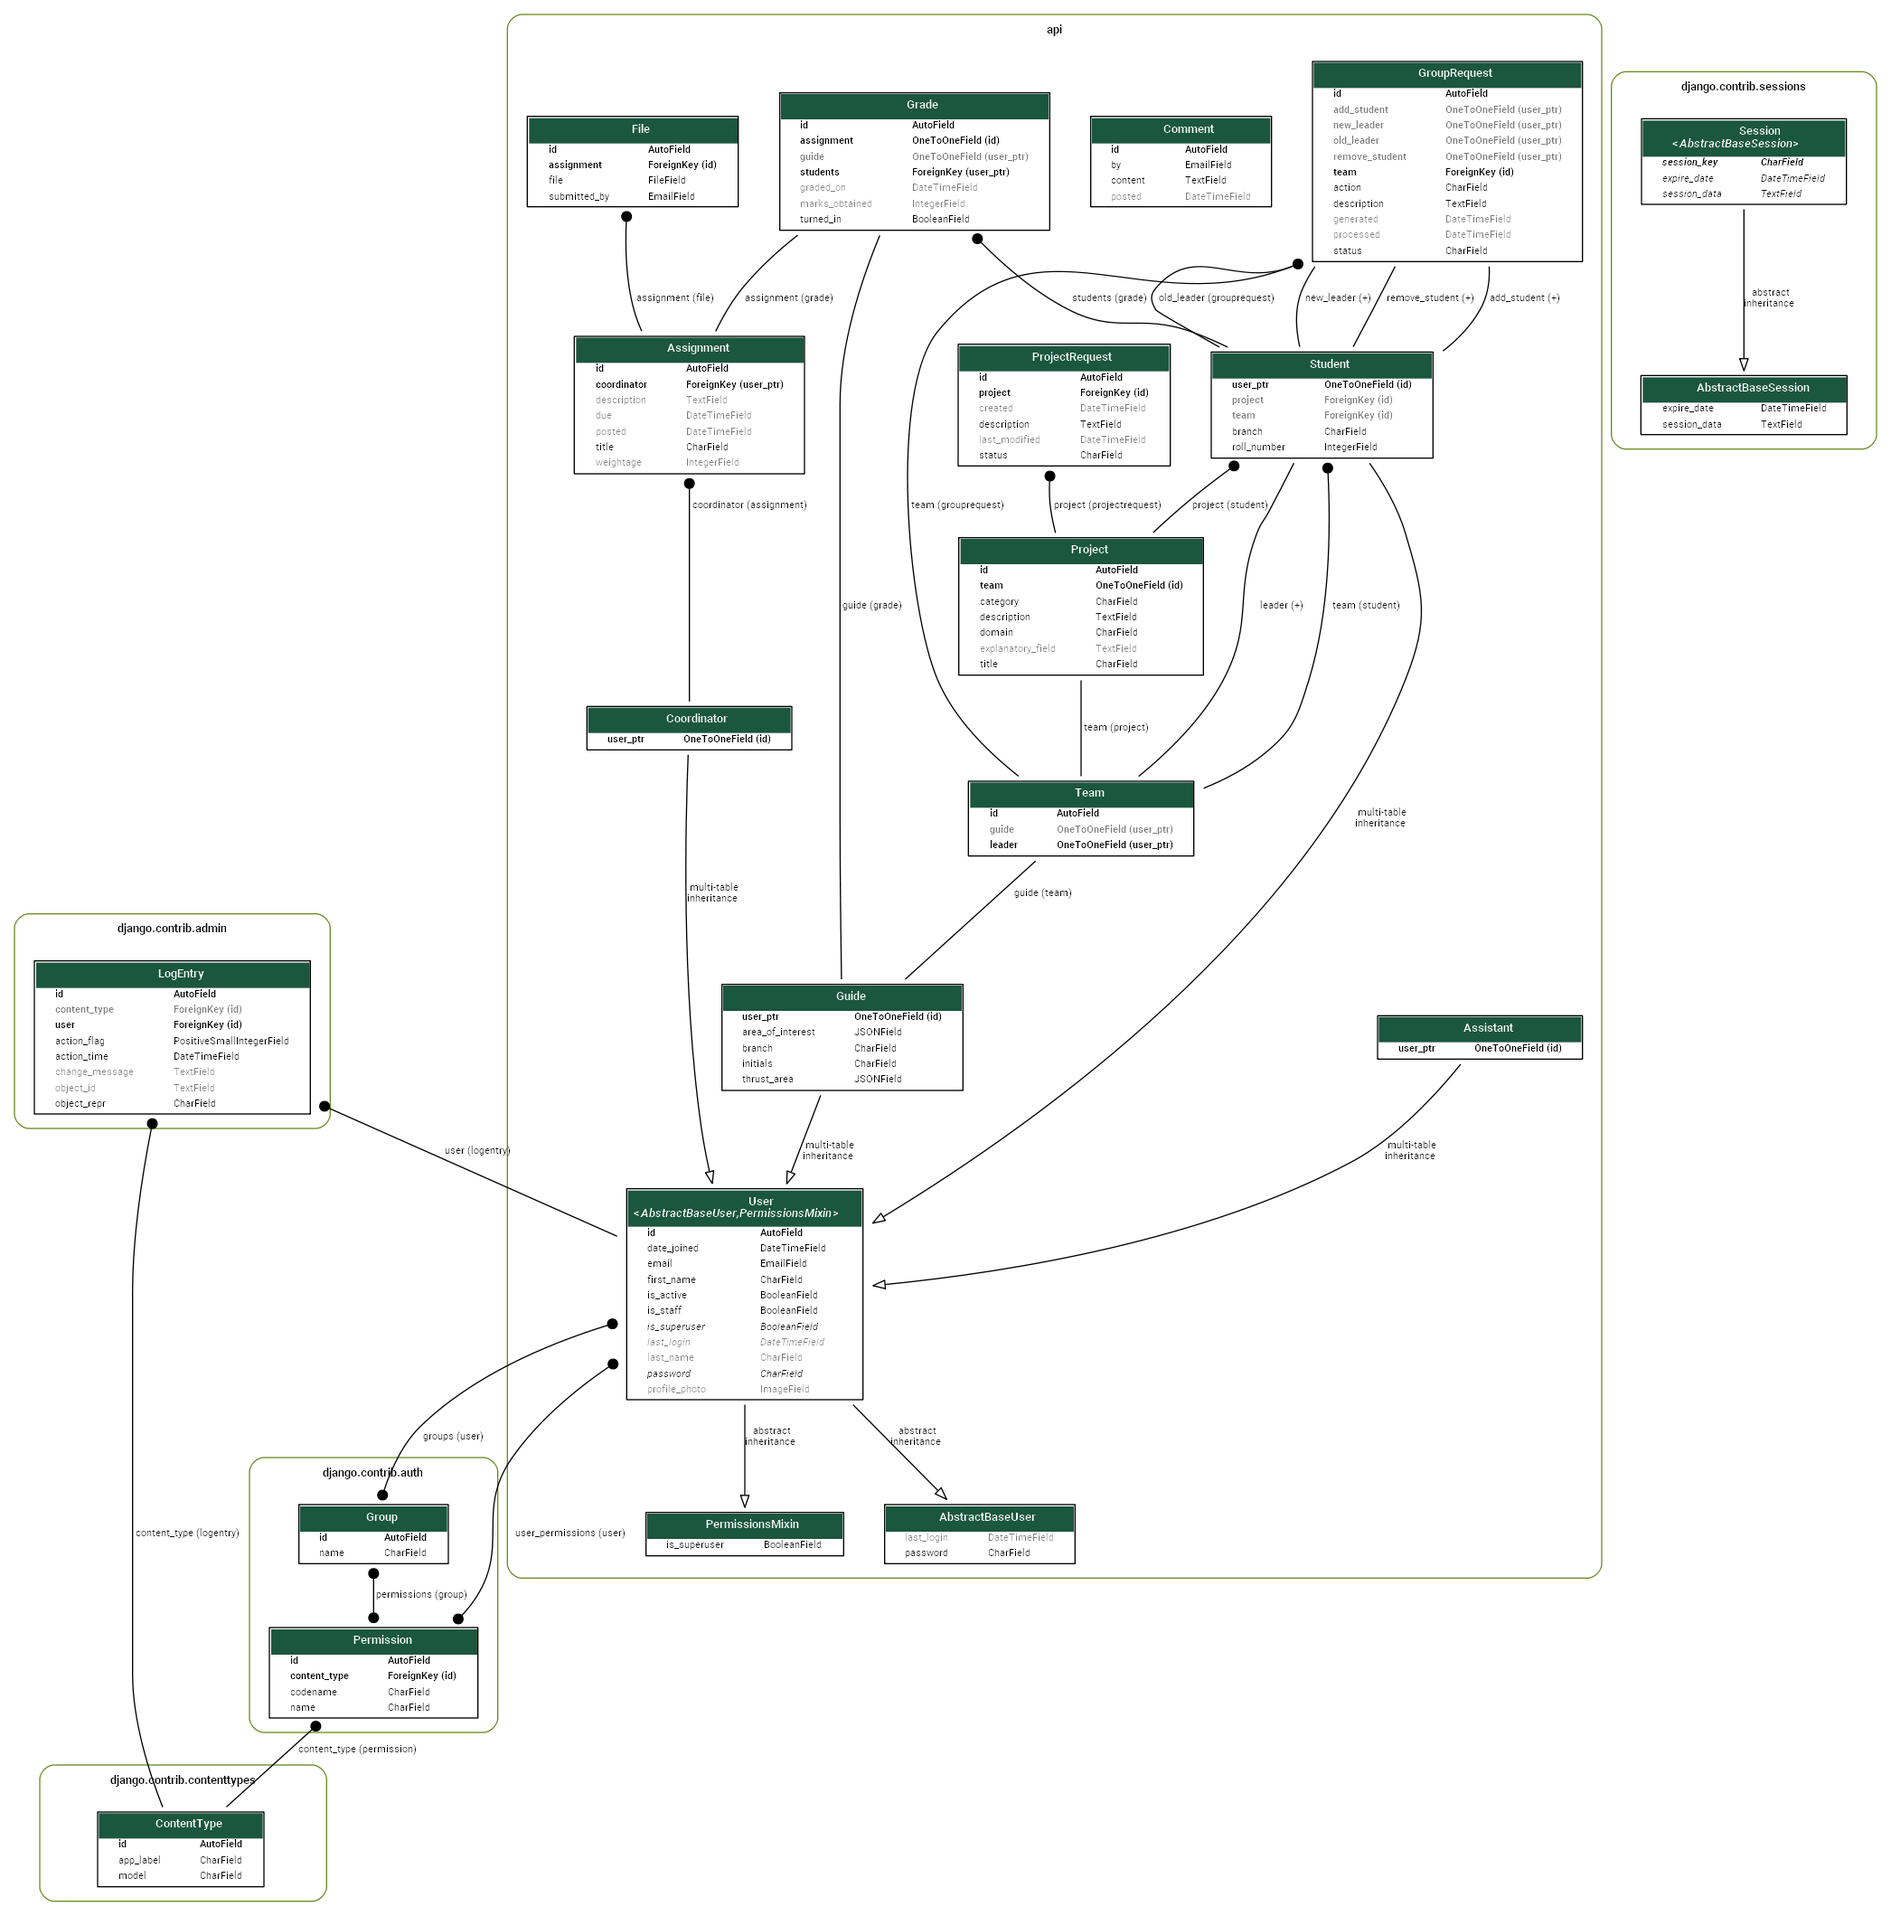
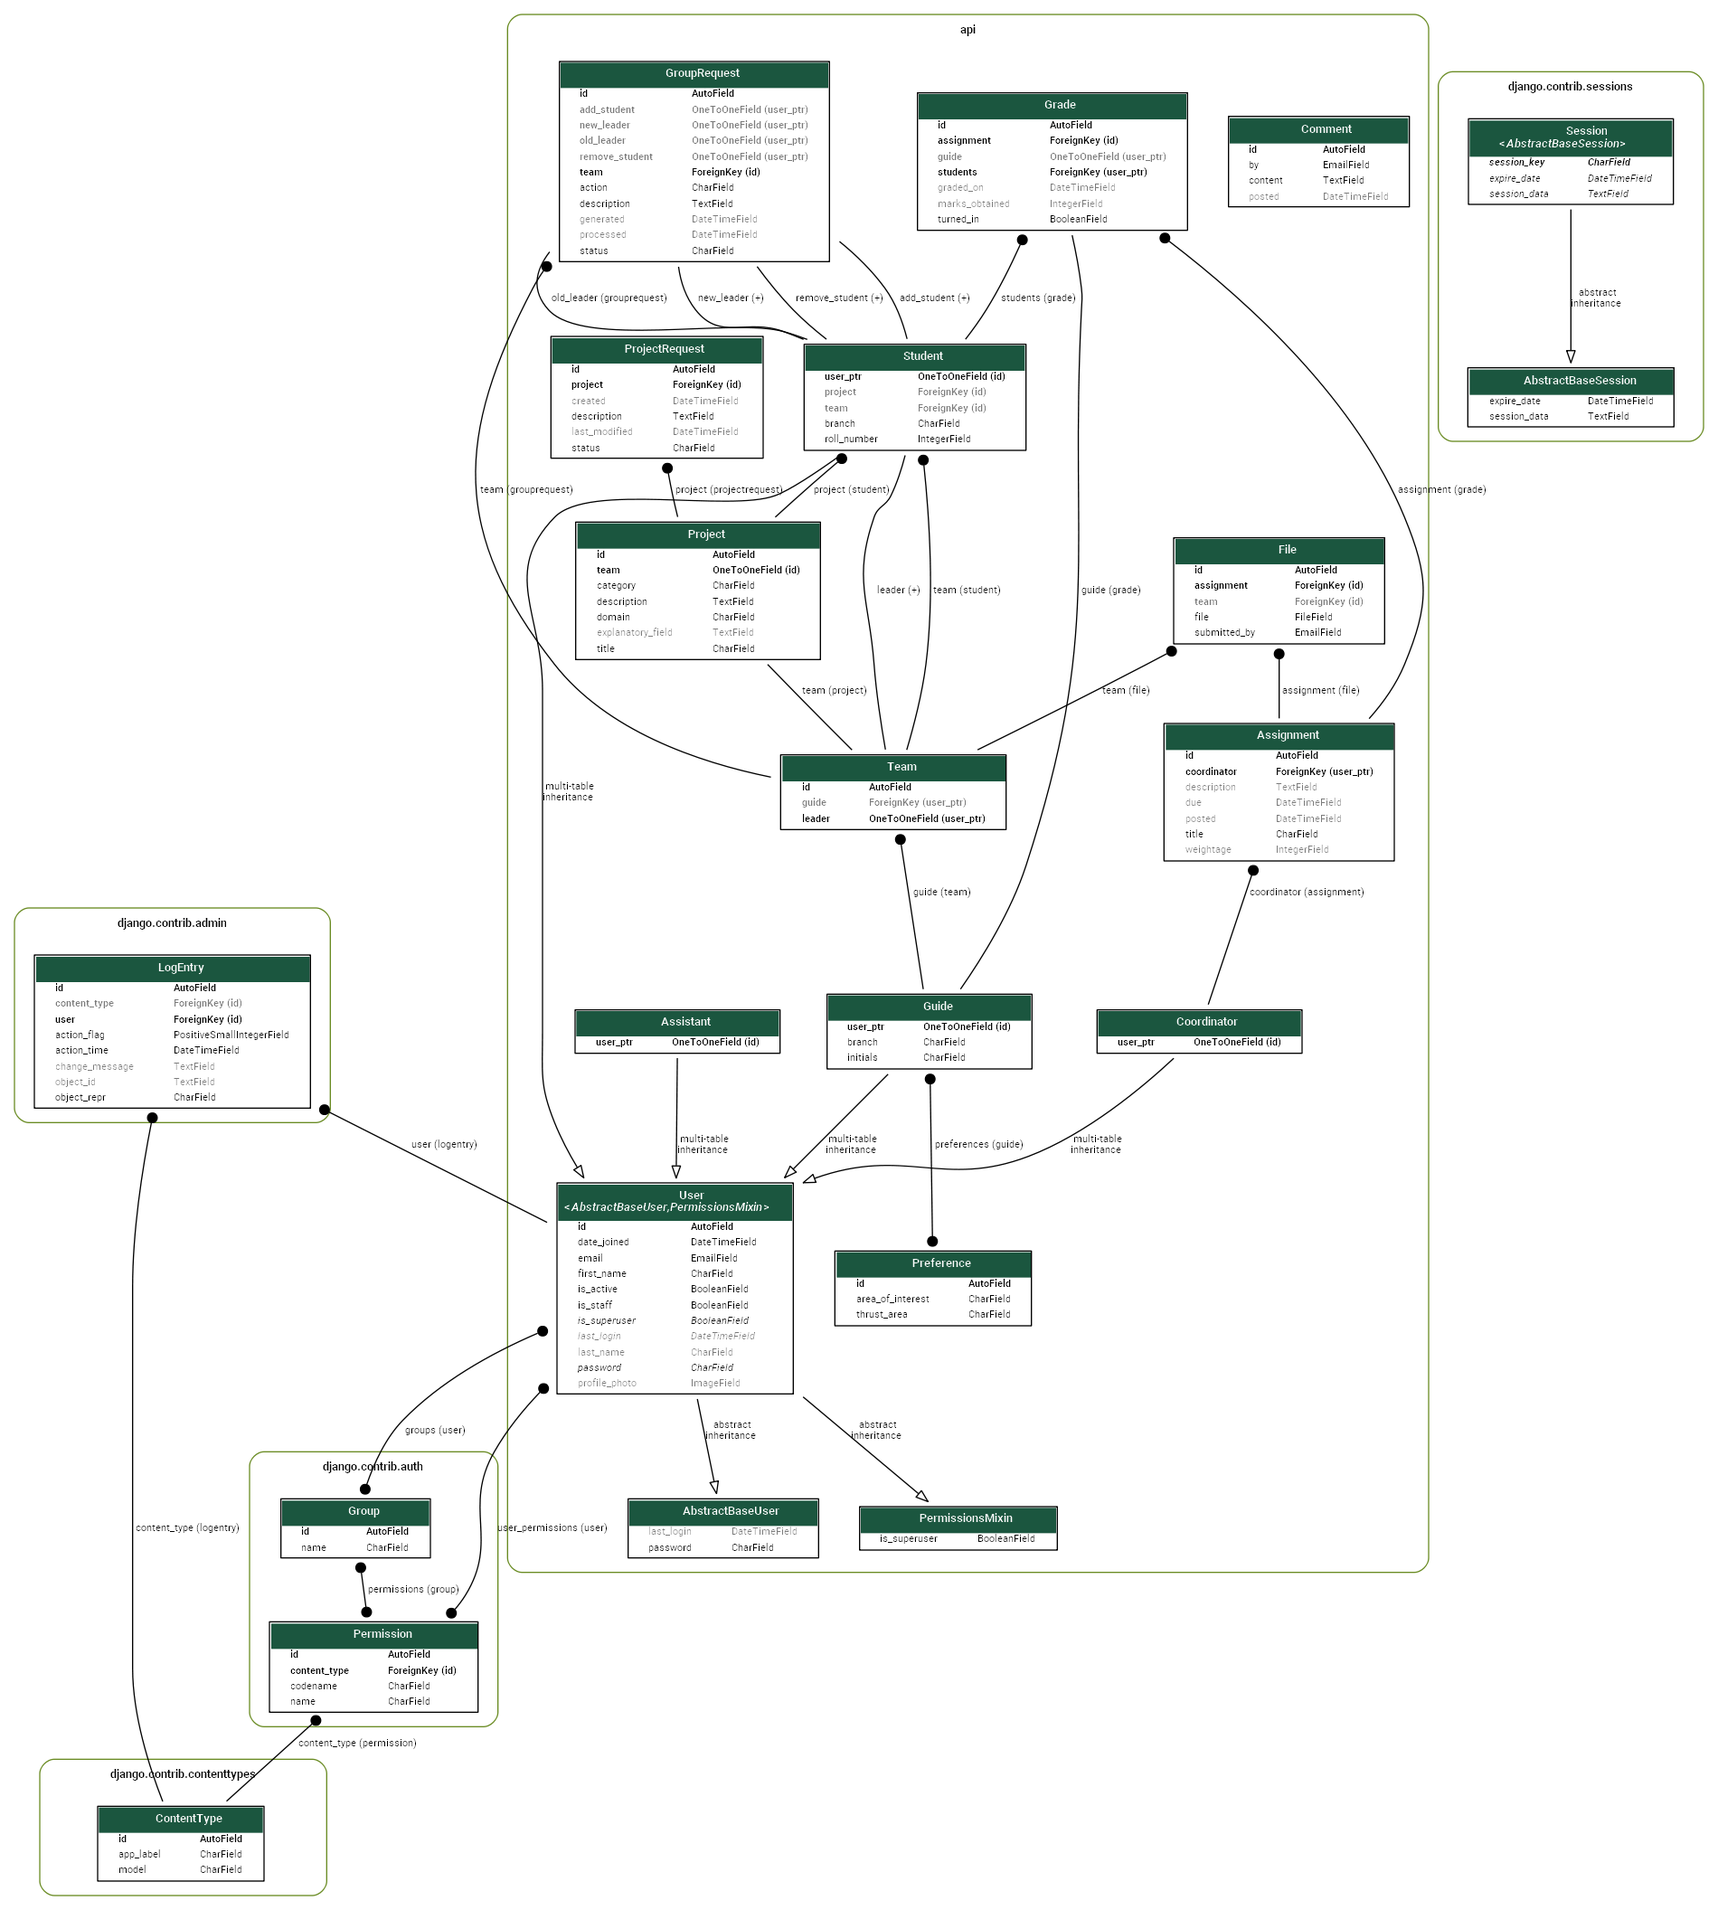
commit

diff --git a/api/models.py b/api/models.py
@@ -83,6 +83,30 @@ class Student(User):
         "project"), on_delete=models.SET_NULL, blank=True, null=True)
 
 
+domains = (
+    ("CS", "Cyber Security (Forensics, Blockchain Technology, Biometrics Security, Cryptographic Techniques)"),
+    ("IP", "Image Processing (Computer Vision)"),
+    ("AI", "Artifical Intelligence (Machine Learning, Natural Language Processing, Robotics)"),
+    ("CN", "Computer Networking"),
+    ("BD", "Big Data Processing"),
+    ("EHIA", "Embedded and Hardware Integrated Applications (IOT)"),
+    ("ARVR", "Augmented Reality and Virtual Reality"),
+    ("GIS", "GIS"),
+    ("CLOUD", "Cloud Computing (High Performance Computing)"),
+    ("SP", "System Programming (Compiler construction, OS, Device drivers)"),
+    ("QC", "Quantum Computing"),
+    ("STA", "Software Testing Automation"),
+    ("OTHER", "Other"),
+)
+category = (("IN", "Internal"),
+            ("EX", "External"),
+            ("ID", "Inter-disciplinary"),)
+
+status = (("P", "Pending"),
+          ("A", "Accepted"),
+          ("R", "Rejected"),)
+
+
 thrust_areas = (("NS", "Network and Security"),
                 ("AD", "Application Development"),
                 ("IM", "Information Management"),
@@ -91,11 +115,17 @@ thrust_areas = (("NS", "Network and Security"),
 
 class Guide(User):
     initials = models.CharField(_("initials"), max_length=50, unique=True)
-    area_of_interest = JSONField()
-    # check before saving
+    preferences = models.ManyToManyField(
+        "api.Preference", verbose_name=_("preferences"))
     branch = models.CharField(
         _("branch"), max_length=40, choices=branches, default="IT")
-    thrust_area = JSONField()
+
+
+class Preference(models.Model):
+    area_of_interest = models.CharField(
+        _("area of interest"), choices=domains, max_length=256)
+    thrust_area = models.CharField(
+        _("thrust area"), choices=thrust_areas, max_length=2)
 
 
 class Assistant(User):
@@ -125,30 +155,6 @@ class Assignment(models.Model):
     description = models.TextField(_("description"), blank=True, null=True)
     weightage = models.IntegerField(_("weightage"), blank=True, default=0)
     title = models.CharField(_("title"), max_length=256)
-
-
-domains = (
-    ("CS", "Cyber Security (Forensics, Blockchain Technology, Biometrics Security, Cryptographic Techniques)"),
-    ("IP", "Image Processing (Computer Vision)"),
-    ("AI", "Artifical Intelligence (Machine Learning, Natural Language Processing, Robotics)"),
-    ("CN", "Computer Networking"),
-    ("BD", "Big Data Processing"),
-    ("EHIA", "Embedded and Hardware Integrated Applications (IOT)"),
-    ("ARVR", "Augmented Reality and Virtual Reality"),
-    ("GIS", "GIS"),
-    ("CLOUD", "Cloud Computing (High Performance Computing)"),
-    ("SP", "System Programming (Compiler construction, OS, Device drivers)"),
-    ("QC", "Quantum Computing"),
-    ("STA", "Software Testing Automation"),
-    ("OTHER", "Other"),
-)
-category = (("IN", "Internal"),
-            ("EX", "External"),
-            ("ID", "Inter-disciplinary"),)
-
-status = (("P", "Pending"),
-          ("A", "Accepted"),
-          ("R", "Rejected"),)
 
 
 class Project(models.Model):

diff --git a/api/views.py b/api/views.py
@@ -581,8 +581,8 @@ def rgAssignGrades(request):
             assignment=request.data.get("assignment_id"))[0]
         if (_g.assignment.weightage >= i.get("marks_obtained")) and (i.get("marks_obtained") >= 0):
             _g.marks_obtained = i.get("marks_obtained")
-            # _g.save()
-            print(_g.marks_obtained)
+            _g.save()
+            # print(_g.marks_obtained)
         else:
             return Response(status=status.HTTP_400_BAD_REQUEST)
     return Response()
@@ -612,6 +612,18 @@ def rgAssignmentList(request, groupId, *args, **kwargs):
         response.append(_t)
     return Response(data=response)
 
+
+@api_view(['GET', 'PUT'])
+def rgDetailsForm(request):
+    if request.method == "GET":
+        # do something
+        pass
+    elif request.method == "PUT":
+        guide = Guide.objects.get(id=request.data.id)
+        # guide_data = {
+        #     "initials" : guide.initials,
+        #     "aoi" : guide.aoi,
+        # }
 
 # Student views
 
@@ -696,8 +708,8 @@ def guideSignUp(request):
             password = request.data.get("password")
             first_name = request.data.get("first_name")
             last_name = request.data.get("last_name")
-            area_of_interest = request.data.get("area_of_interest")
-            thrust_area = request.data.get("thrust_area")
+            # area_of_interest = request.data.get("area_of_interest")
+            # thrust_area = request.data.get("thrust_area")
             initials = request.data.get("initials")
             branch = request.data.get("branch")
             if branch == "Information Technology":
@@ -717,8 +729,8 @@ def guideSignUp(request):
                 "email": email,
                 "password": password,
                 "branch": branch,
-                "area_of_interest": area_of_interest,
-                "thrust_area": thrust_area,
+                # "area_of_interest": area_of_interest,
+                # "thrust_area": thrust_area,
                 "initials": initials,
                 "profile_photo": None,
                 "is_staff": False,

diff --git a/api/migrations/0010_auto_20200817_1943.py b/api/migrations/0010_auto_20200817_1943.py
@@ -1,0 +1,34 @@
+# Generated by Django 2.2 on 2020-08-17 14:13
+
+from django.db import migrations, models
+
+
+class Migration(migrations.Migration):
+
+    dependencies = [
+        ('api', '0009_file_team'),
+    ]
+
+    operations = [
+        migrations.CreateModel(
+            name='Preference',
+            fields=[
+                ('id', models.AutoField(auto_created=True, primary_key=True, serialize=False, verbose_name='ID')),
+                ('area_of_interest', models.CharField(choices=[('CS', 'Cyber Security (Forensics, Blockchain Technology, Biometrics Security, Cryptographic Techniques)'), ('IP', 'Image Processing (Computer Vision)'), ('AI', 'Artifical Intelligence (Machine Learning, Natural Language Processing, Robotics)'), ('CN', 'Computer Networking'), ('BD', 'Big Data Processing'), ('EHIA', 'Embedded and Hardware Integrated Applications (IOT)'), ('ARVR', 'Augmented Reality and Virtual Reality'), ('GIS', 'GIS'), ('CLOUD', 'Cloud Computing (High Performance Computing)'), ('SP', 'System Programming (Compiler construction, OS, Device drivers)'), ('QC', 'Quantum Computing'), ('STA', 'Software Testing Automation'), ('OTHER', 'Other')], max_length=256, verbose_name='area of interest')),
+                ('thrust_area', models.CharField(choices=[('NS', 'Network and Security'), ('AD', 'Application Development'), ('IM', 'Information Management'), ('KS', 'Knowledge-based systems')], max_length=2, verbose_name='thrust area')),
+            ],
+        ),
+        migrations.RemoveField(
+            model_name='guide',
+            name='area_of_interest',
+        ),
+        migrations.RemoveField(
+            model_name='guide',
+            name='thrust_area',
+        ),
+        migrations.AddField(
+            model_name='guide',
+            name='preferences',
+            field=models.ManyToManyField(to='api.Preference', verbose_name='preferences'),
+        ),
+    ]

diff --git a/api/serializers.py b/api/serializers.py
@@ -2,7 +2,7 @@ from django.contrib.auth.models import Group
 from rest_framework import serializers
 
 from .models import (GroupRequest, ProjectRequest, Assignment, Assistant, Comment, Coordinator,
-                     File, Grade, Guide, Project, Student, Team)
+                     File, Grade, Guide, Project, Student, Team, Preference)
 
 
 class StudentSerializer(serializers.ModelSerializer):
@@ -96,6 +96,12 @@ class GuideSerializer(serializers.ModelSerializer):
 class TeamSerializer(serializers.ModelSerializer):
     class Meta:
         model = Team
+        fields = '__all__'
+
+
+class PreferenceSerializer(serializers.ModelSerializer):
+    class Meta:
+        model = Preference
         fields = '__all__'
 
 

diff --git a/api/urls.py b/api/urls.py
@@ -24,6 +24,7 @@ urlpatterns = [
     path('<int:groupId>/rgAssignmentList/', views.rgAssignmentList),
     path('<int:groupId>/rgAssignmentDetails/<int:pk>/', views.rgAssignmentDetails),
     path("rgAssignGrades/", views.rgAssignGrades),
+    path("rgDetailsForm/", views.rgDetailsForm),
 
     # authentication routes
     path('signIn/', views.signIn),
